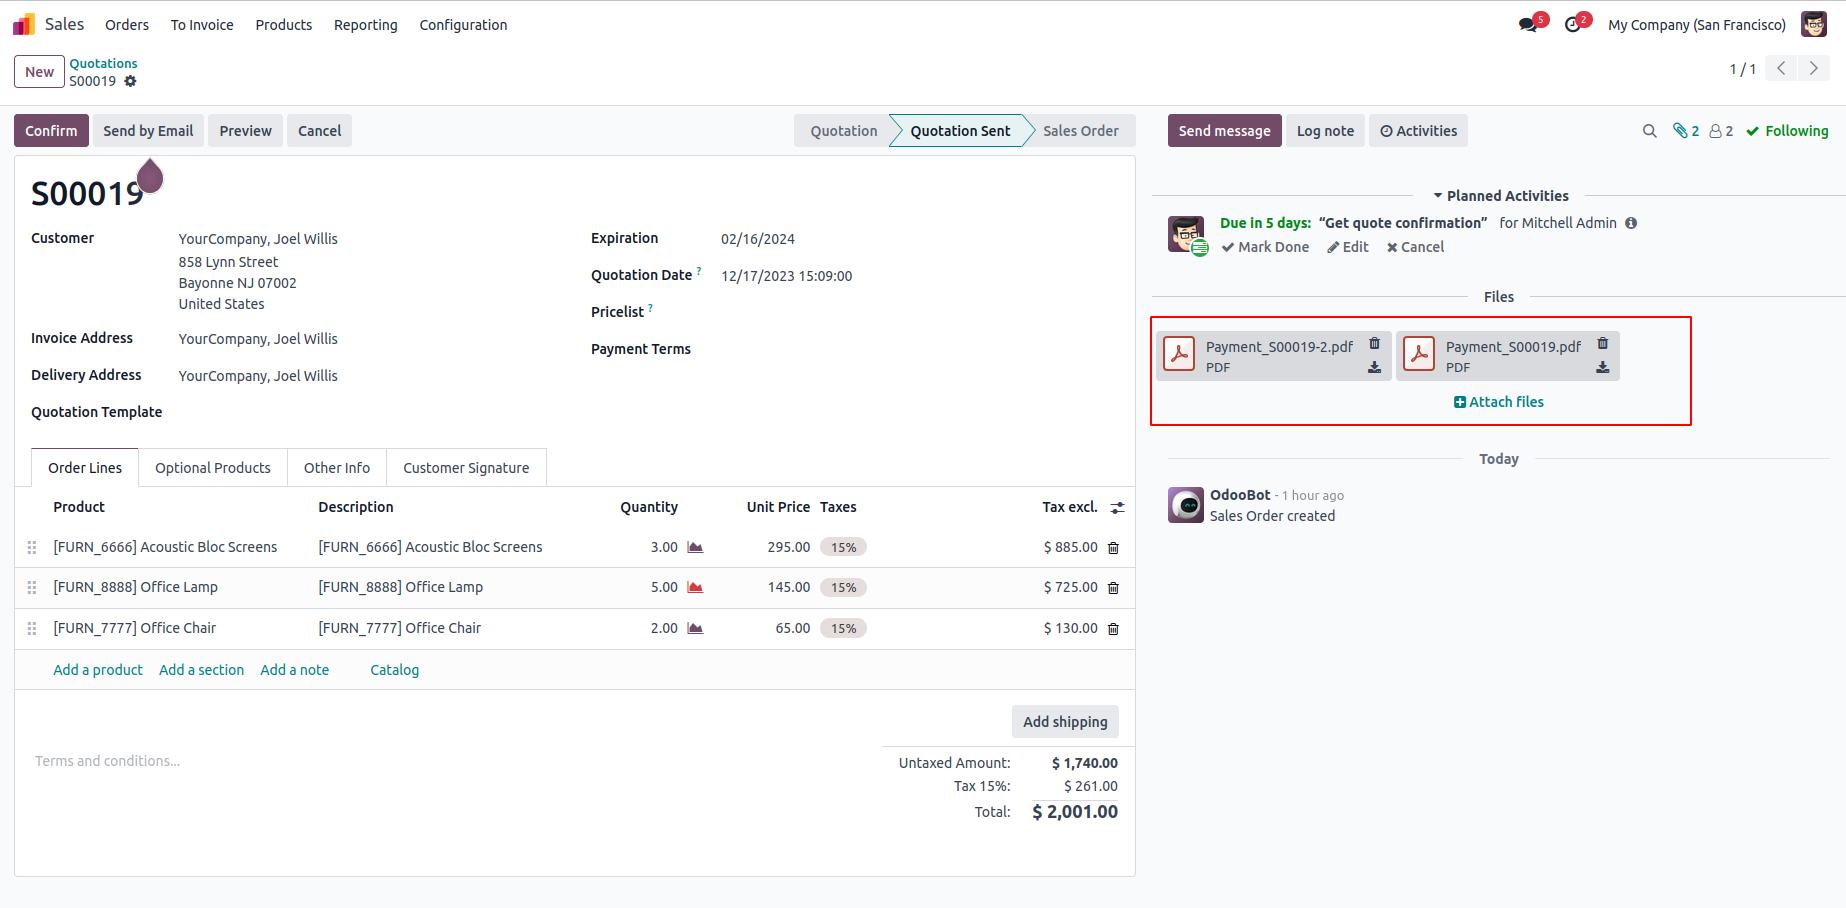
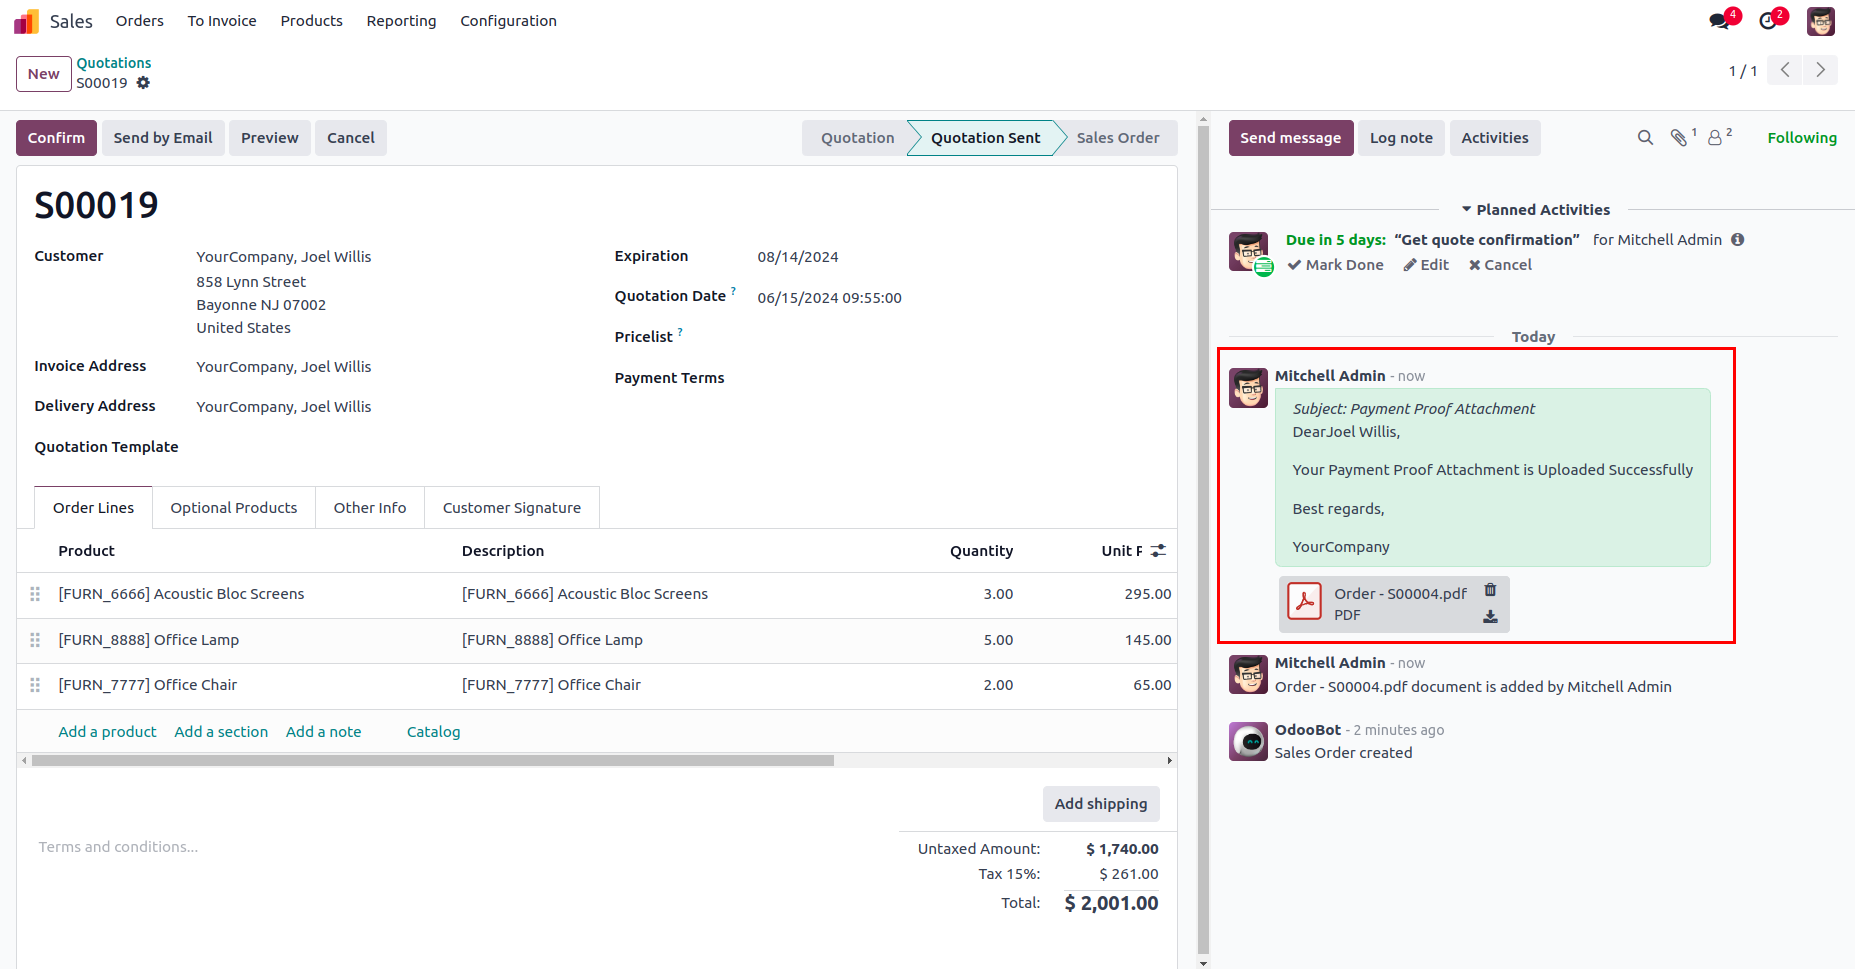
July 18: [FIX] Bug Fixed 'payment_proof_attachment'

diff --git a/payment_proof_attachment/static/src/js/my_account_screen.js b/payment_proof_attachment/static/src/js/my_account_screen.js
@@ -5,7 +5,7 @@ publicWidget.registry.Template = publicWidget.Widget.extend({
     init() {
         this.rpc = this.bindService("rpc");
     },
-    selector: '.my_account_screen',
+    selector: '#wrapwrap',
     events: {
         'click #btnShowModal': '_onClickShowModal',
         'click .close_modal': '_onClickCloseModal',
@@ -13,6 +13,8 @@ publicWidget.registry.Template = publicWidget.Widget.extend({
         'click #payment_proof_update': '_onClickUpdateAttachment',
         'click #btnShowReceipt': '_onClickShowReceipt',
         'click #refresh_receipt': '_onClickShowReceipt',
+
+
     },
     /**
      *for showing the modal dialog
@@ -77,11 +79,11 @@ publicWidget.registry.Template = publicWidget.Widget.extend({
                 $(attachment_ids).each(function (attachment_id) {
                     var id = "/web/content/" + attachment_ids[attachment_id]['id']
                     var name = attachment_ids[attachment_id]['name']
-                    self.$el.find('#showing_updated_receipt').append("<a class='btn btn-outline-info' href='" + id + "'>" + name + " <i class='fa fa-download'></i></a><br/>");
+                    self.$el.find('#showing_updated_receipt').append("<a style='width:200px; margin-bottom: 5px; overflow: hidden; text-overflow: ellipsis; white-space: nowrap;' class='btn btn-outline-secondary' href='" + id + "'>" + name + " <i class='fa fa-download'></i></a><br/>");
                 });
             } else {
                 self.$el.find("#showing_updated_receipt").empty();
-                self.$el.find('#showing_updated_receipt').append("<p style='color:yellow;'>There is no attachments for this sale order.</p>")
+                self.$el.find('#showing_updated_receipt').append("<p style='color:red;'>There is no attachments for this sale order.</p>")
             }
         })
     }

diff --git a/payment_proof_attachment/static/src/js/payment_screen.js b/payment_proof_attachment/static/src/js/payment_screen.js
@@ -19,12 +19,14 @@ publicWidget.registry.PaymentProof = publicWidget.Widget.extend({
      */
     _onClickShowModal: function () {
         this.el.querySelector('#myModal').style.display = 'block';
+//        document.querySelector('#wrapwrap').style.overflow = 'hidden';
     },
     /**
      *for closing the modal dialog
      */
     _onClickCloseModal: function () {
         this.el.querySelector('#myModal').style.display = 'none';
+//        document.querySelector('#wrapwrap').style.overflow = 'auto';
     },
     /**
      *getting content from the uploaded file
@@ -74,7 +76,7 @@ publicWidget.registry.PaymentProof = publicWidget.Widget.extend({
                 $(attachment_ids).each(function (attachment_id) {
                     var id = "/web/content/" + attachment_ids[attachment_id]['id']
                     var name = attachment_ids[attachment_id]['name']
-                    self.$el.find('#showing_updated_receipt').append("<a class='btn btn-outline-info' href='" + id + "'>" + name + " <i class='fa fa-download'></i></a><br/>");
+                    self.$el.find('#showing_updated_receipt').append("<a style='width:200px; margin-bottom: 5px; overflow: hidden; text-overflow: ellipsis; white-space: nowrap;' class='btn btn-outline-secondary' href='" + id + "'>" + name + " <i class='fa fa-download'></i></a><br/>");
                 });
             } else {
                 self.$el.find("#showing_updated_receipt").empty();

diff --git a/payment_proof_attachment/static/description/index.html b/payment_proof_attachment/static/description/index.html
@@ -203,7 +203,7 @@
                                 <div class="px-3">
                                     <h4 class="mt-2"
                                         style=" font-weight:600 !important; color:#282F33 !important; font-size:1.3rem !important">
-                                      Admin can see the uploaded files in the backend.</h4>
+                                      Admin can see the uploaded files in the backend. Also, the mail will be sent to the customer.</h4>
                                 </div>
                             </div>
                         </div>

diff --git a/payment_proof_attachment/static/src/css/payment_proof.css b/payment_proof_attachment/static/src/css/payment_proof.css
@@ -54,7 +54,7 @@
 
 .payment_proof_modal_header {
   padding: 2px 16px;
-  background-color: #71639E;
+  background-color: #8595A2;
   color: white;
 }
 
@@ -62,7 +62,7 @@
 
 .payment_proof_modal_footer {
   padding: 2px 16px;
-  background-color: #71639E;
+  background-color: #8595A2;
   color: white;
 }
 

diff --git a/payment_proof_attachment/controllers/payment_proof_attachment.py b/payment_proof_attachment/controllers/payment_proof_attachment.py
@@ -18,7 +18,7 @@
 #    (AGPL v3) along with this program.
 #    If not, see <http://www.gnu.org/licenses/>.
 ################################################################################
-from odoo import http
+from odoo import http, _
 from odoo.http import request
 
 
@@ -54,11 +54,13 @@ class WebsitePaymentProof(http.Controller):
             sale_id = int(kw.get('sale_id'))
         else:
             sale_id = request.session.sale_order_id
+        sale = request.env['sale.order'].sudo().browse(sale_id)
         attached_files = kw['attachments']
         for attachment in attached_files:
             name = attachment['name']
             content = attachment['content']
-            request.env['ir.attachment'].sudo().create({
+            payment_proof_attachment = request.env[
+                'ir.attachment'].sudo().create({
                 'name': name,
                 'res_model': 'sale.order',
                 'res_id': sale_id,
@@ -66,6 +68,20 @@ class WebsitePaymentProof(http.Controller):
                 'public': True,
                 'datas': content,
             })
+            copied_attachment = payment_proof_attachment.copy()
+            body = _("%s document is added by %s" % (
+                attachment['name'], request.env.user.name))
+            sale.message_post(body=body)
+            mail_template = request.env.ref(
+                'payment_proof_attachment'
+                '.payment_proof_attachment_email_template').id
+            payment_proof_template = request.env['mail.template'].browse(
+                mail_template)
+            payment_proof_template.attachment_ids = [
+                (6, 0, [copied_attachment.id])]
+            payment_proof_template.send_mail(sale_id, force_send=True)
+            payment_proof_template.attachment_ids = [(3, copied_attachment.id)]
+
         return
 
     @http.route(['/my_account_screen/show_updated'], type='json',

diff --git a/payment_proof_attachment/__manifest__.py b/payment_proof_attachment/__manifest__.py
@@ -36,6 +36,7 @@
     ],
     'data': [
         'views/attachment_templates.xml',
+        'data/payment_proof_attachment.xml'
     ],
     'assets': {
         'web.assets_frontend': [
